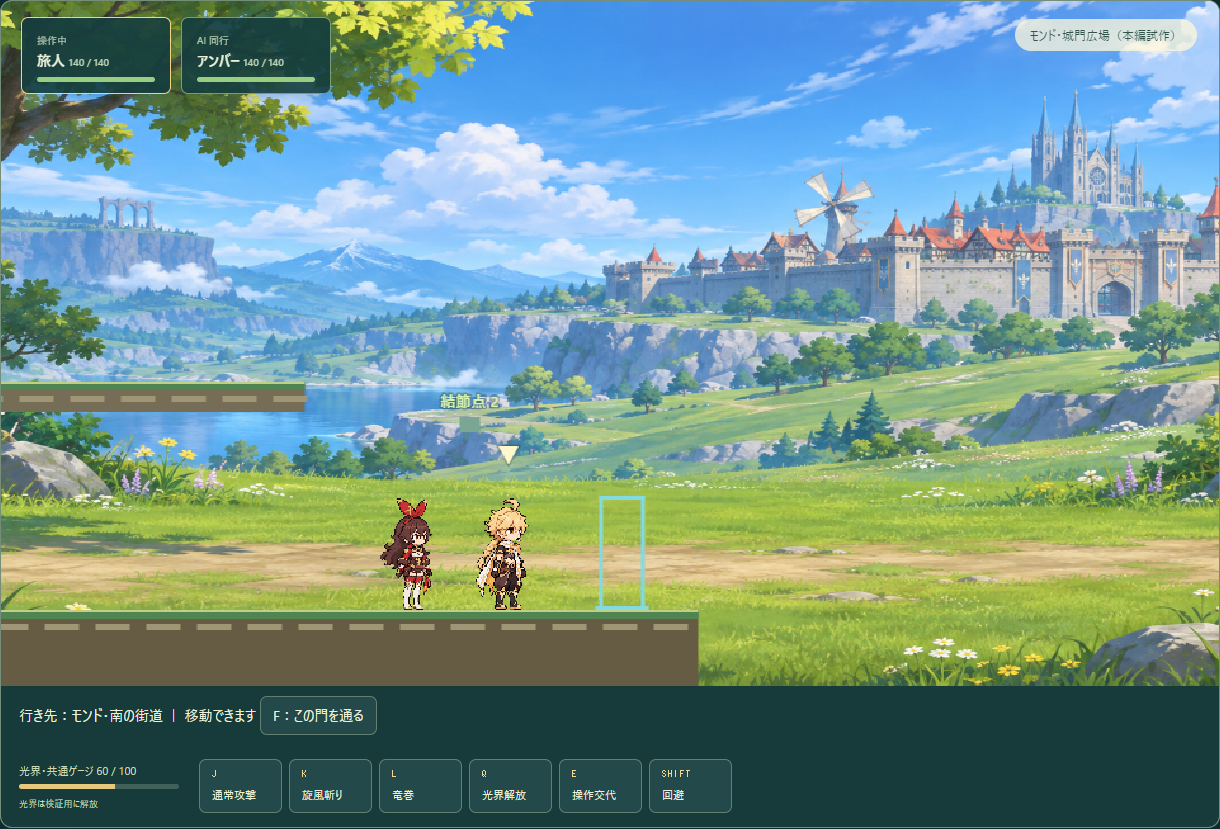
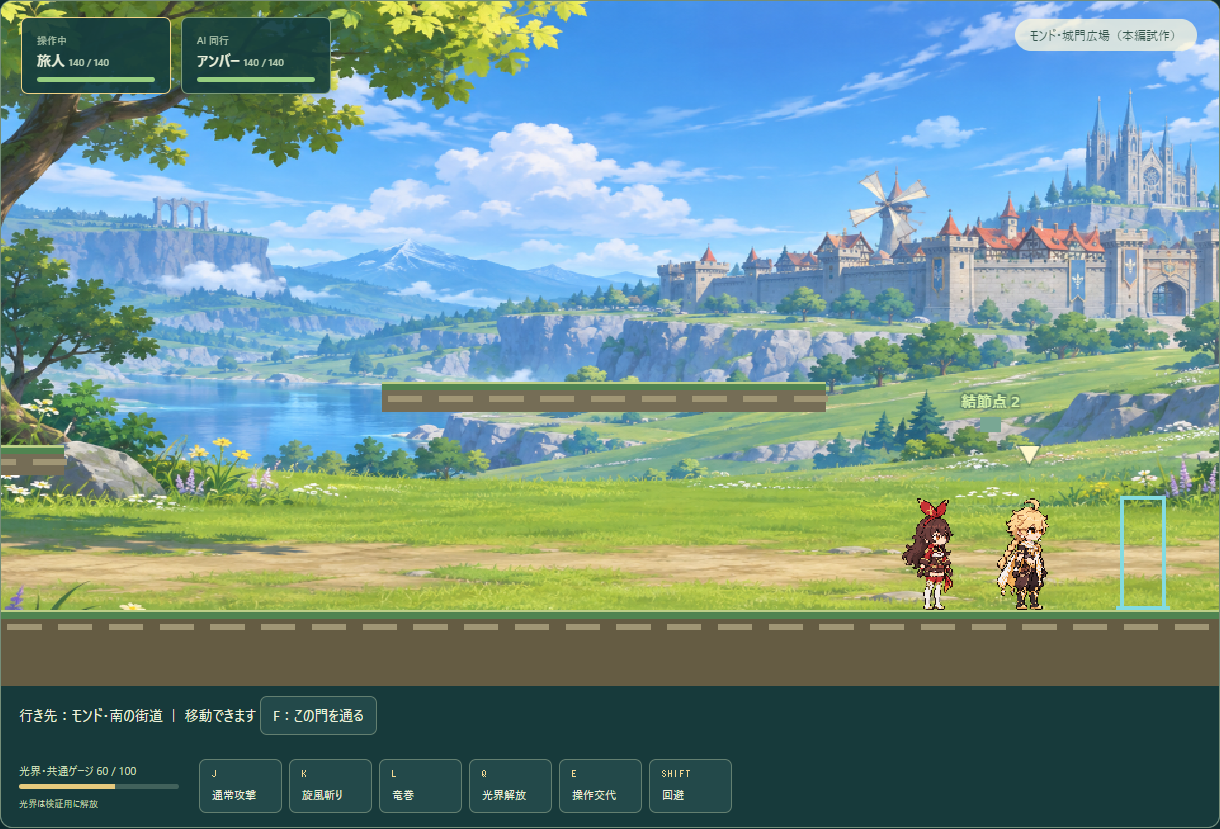
Clamp scrolling camera to each map width and entry position

diff --git a/test_map_camera_bounds.py b/test_map_camera_bounds.py
@@ -1,0 +1,23 @@
+import json
+from runtime import runtime,ROOT
+lua,c=runtime();graph=json.loads((ROOT/'content/story-graph.json').read_text(encoding='utf-8'));results=[]
+for n in graph['nodes']:
+ s=c.new(12);c.action(s,'story_start');s.camera=1920;c.enterStoryNode(s,n['id']);assert s.camera==0
+ s.enemies=lua.table()
+ for x in [20,n['width']/2,n['width']-20]:
+  s.actors[1].x=x;c.step(s,1/60,lua.table());f=c.frame(s,'sprite','h32c16')
+  assert 0<=f.camera<=n['width']-960
+  ground=next(p for p in f.platforms.values() if p.y==480 and p.x==0)
+  assert ground.x-f.camera<=0 and ground.x+ground.w-f.camera>=960
+  assert 0<=s.actors[1].x-f.camera<=960
+ results.append({'node':n['id'],'width':n['width'],'rightCamera':s.camera})
+# Returning through the left-hand exit spawns at the previous map's right end;
+# the first frame (no simulation step) must already use that map's camera limit.
+s=c.new(12);c.action(s,'story_start');c.enterStoryNode(s,'mond-road');s.actors[1].x=60;c.action(s,'story_portal:mond-town');assert s.story.node=='mond-town';f=c.frame(s,'sprite','legacy');assert f.camera==480 and f.actors[1].x==1280
+# The standalone three-screen test field keeps its original right edge.
+s=c.new(12);s.enemies=lua.table();s.actors[1].x=2860;c.step(s,1/60,lua.table());assert s.camera==1920
+# Wider future maps and narrow arenas use the declared dimensions, not 1920.
+for width in [960,1440,2880,4800]:
+ s=c.new(12);s.enemies=lua.table();s.worldwidth=width;s.platforms=lua.table_from([{'x':0,'y':480,'w':width}],recursive=True);s.actors[1].x=width-20;c.step(s,1/60,lua.table());assert s.camera==width-960
+(ROOT/'evidence/map-camera-bounds.json').write_text(json.dumps({'nodes':results,'checks':['61 nodes left/middle/right ground covers viewport','player stays on screen','node entry clears prior camera immediately','return portal first frame clamped','original 2880 test field unchanged','declared widths 960 through 4800']},indent=2)+'\n')
+print('61 node camera bounds, ground coverage, immediate return and legacy field passed')

diff --git a/CHAT_HANDOFF.md b/CHAT_HANDOFF.md
@@ -234,3 +234,6 @@ map-art.html追加: 本編61仮地点の足場/背景を選択し、元PNGと軽
 
 
 2026-11-17: 門の近くで行き先と移動条件を画面下に表示し、Fキー/ボタンから既存のstory_portalへ移動する操作を追加。距離90未満/高さ差60未満の最寄り門だけ表示し、未発見の隠し入口名は公開しない。レベル/一時停止/戦闘不能/寄港時間/到着待ちを表示し、実際の移動は既存検査を通す。全接続の行き先情報、隠し入口、境界値、時間条件、既存story19件、61地点2描画方式の門表示検査通過。ブラウザで町から実キーで歩きF移動、390px画面のボタンで町へ帰還。PC/スマホ幅の画面を目視、案内はプレイ画面下で足場や人物を覆わない。技変更なし、全マップ連続踏破の検証ではない。根拠 evidence/nearby-portal.json, evidence/nearby-portal-browser.json。
+
+
+2026-11-17: 地点端で足場の外までカメラが進む不具合を修正。coreの固定上限1920を地点幅-960へ変更し、story入場時にも出現位置から即時更新。61地点の左/中央/右で地面が画面を覆い操作キャラが画面内、戻り門の初フレーム、従来2880幅と将来4800幅を検査。既存story19件と26ルートの全足場到達/地上往復検査通過。実ブラウザで町の右門へ歩きFで街道、390pxボタンで帰還を再検証。町の右端画面を目視し床が画面途中で途切れないことを確認。技/地形データの変更なし。根拠 evidence/map-camera-bounds.json, evidence/nearby-portal-desktop.png。
